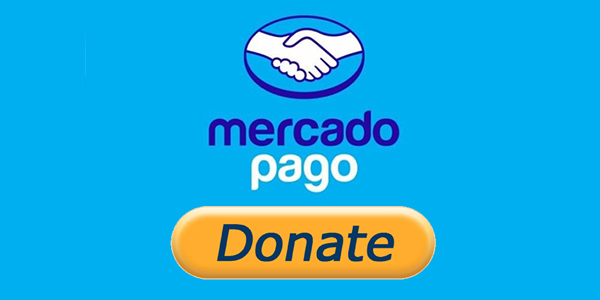
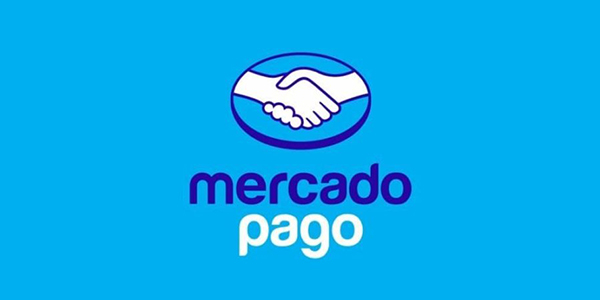
a

Changed region(s): [[0.27, 0.03, 0.75, 0.96]]

diff --git a/index.html b/index.html
@@ -30,7 +30,7 @@
 						</div>
 						<header class="special">
 							<h2>Let´s make some games</h2>
-							<p>Design + Code/p>
+							<p>Design + Code</p>
 						</header>
 						<div class="content">
 							<p> TEste</p>
@@ -53,51 +53,17 @@
 								</div>
 								<div>
 									<div class="image fit flush">
-										<a href="images/pic01.jpg"><img src="images/pic01.jpg" alt="" /></a>
+										<a href="images/pic01.jpg"><img src="https://mpago.la/2MReiby" alt="" /></a>
 									</div>
 								</div>
 								<div>
-									<div class="image fit flush">
-										<a href="images/pic04.jpg"><img src="images/pic04.jpg" alt="" /></a>
-									</div>
-								</div>
-								<div>
-									<div class="image fit flush">
-										<a href="images/pic05.jpg"><img src="images/pic05.jpg" alt="" /></a>
-									</div>
+									
 								</div>
 							</div>
 						</div>
 					</section>
 
-				<!-- Three -->
-					<section id="three" class="wrapper">
-						<div class="spotlight">
-							<div class="image flush"><img src="images/pic06.jpg" alt="" /></div>
-							<div class="inner">
-								<h3>Viverra Hendrerit</h3>
-								<p>Curabitur eget semper ante. Morbi eleifend ultricies est, a blandit diam vehicula vel. Vestibulum porttitor nisi quis viverra hendrerit. Suspendisse vel volutpat nibh, vel elementum lacus. Maecenas commodo pulvinar dui, at cursus metus imperdiet vel.</p>
-							</div>
-						</div>
-						<div class="spotlight alt">
-							<div class="image flush"><img src="images/pic07.jpg" alt="" /></div>
-							<div  class="inner">
-								<h3>Curabitur Eget</h3>
-								<p>Curabitur eget semper ante. Morbi eleifend ultricies est, a blandit diam vehicula vel. Vestibulum porttitor nisi quis viverra hendrerit. Suspendisse vel volutpat nibh, vel elementum lacus. Maecenas commodo pulvinar dui, at cursus metus imperdiet vel.</p>
-							</div>
-						</div>
-						<div class="spotlight">
-							<div class="image flush"><img src="images/pic08.jpg" alt="" /></div>
-							<div class="inner">
-								<h3>Morbi Eleifend</h3>
-								<p>Curabitur eget semper ante. Morbi eleifend ultricies est, a blandit diam vehicula vel. Vestibulum porttitor nisi quis viverra hendrerit. Suspendisse vel volutpat nibh, vel elementum lacus. Maecenas commodo pulvinar dui, at cursus metus imperdiet vel.</p>
-							</div>
-						</div>
-					</section>
-
-				</div>
-			</section>
-
+				
 		<!-- Footer -->
 			<footer id="footer">
 				<div class="container">
